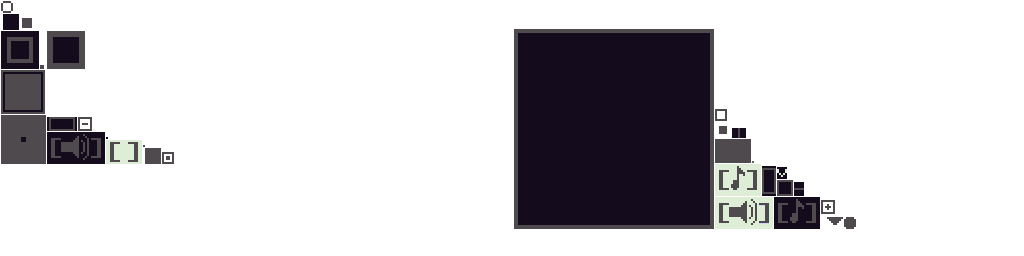
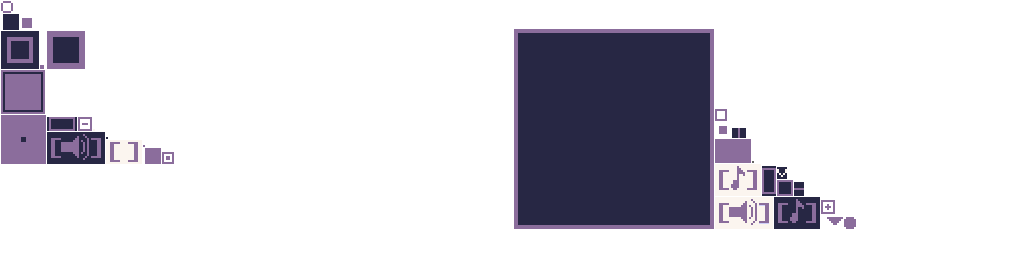
palette, tiles

Changed region(s): [[0.5, 0.0938, 0.8438, 0.9062], [0.0, 0.0, 0.1875, 0.6562]]

diff --git a/core/src/main/com/ovle/rll3/view/palette/partial.kt b/core/src/main/com/ovle/rll3/view/palette/partial.kt
@@ -22,6 +22,11 @@ import com.ovle.rll3.view.palette.full.En.tealEn
 import com.ovle.rll3.view.palette.full.En.whiteEn
 import com.ovle.rll3.view.palette.full.Glow1bit.black1bit
 import com.ovle.rll3.view.palette.full.Glow1bit.white1bit
+import com.ovle.rll3.view.palette.full.Oil.blackOil
+import com.ovle.rll3.view.palette.full.Oil.darkOil
+import com.ovle.rll3.view.palette.full.Oil.grayOil
+import com.ovle.rll3.view.palette.full.Oil.lightGrayOil
+import com.ovle.rll3.view.palette.full.Oil.whiteOil
 
 //------------------------------------------------
 
@@ -142,9 +147,17 @@ internal val palette2Color = arrayOf(
     white1bit
 )
 
-val paletteMain = arrayOf(
+val paletteEn4 = arrayOf(
     blackEn,
     greenEn,
     tealEn,
     whiteEn
+)
+
+val paletteOil = arrayOf(
+    blackOil,
+    darkOil,
+    grayOil,
+    lightGrayOil,
+    whiteOil
 )

diff --git a/core/src/main/com/ovle/rll3/view/constants.kt b/core/src/main/com/ovle/rll3/view/constants.kt
@@ -19,9 +19,9 @@ const val gameFullscreen = false
 const val skinPath = "skins/c64/uiskin.json"
 const val fontName = "commodore-64"
 
-const val tileTexturePath = "images/tiles.png"
-const val spriteTexturePath = "images/sprites.png"
-const val guiTexturePath = "images/gui.png"
+const val tileTexturePath = "images/tiles_oil.png"
+const val spriteTexturePath = "images/sprites_oil.png"
+const val guiTexturePath = "images/gui_oil.png"
 
 const val entityTemplatePath = "templates/entity/"
 const val entityViewTemplatePath = "templates/entity/view/"

diff --git a/core/src/main/com/ovle/rll3/view/palette/full/Oil.kt b/core/src/main/com/ovle/rll3/view/palette/full/Oil.kt
@@ -1,0 +1,12 @@
+package com.ovle.rll3.view.palette.full
+
+import com.badlogic.gdx.graphics.Color
+
+object Oil {
+    val blackOil = Color.valueOf("272744")
+    val darkOil = Color.valueOf("494D7E")
+    val grayOil = Color.valueOf("8B6D9C")
+    val lightGrayOil = Color.valueOf("C69FA5")
+    val lightOil = Color.valueOf("F2D3AB")
+    val whiteOil = Color.valueOf("FBF5EF")
+}

diff --git a/core/src/main/com/ovle/rll3/view/palette/Palette.kt b/core/src/main/com/ovle/rll3/view/palette/Palette.kt
@@ -13,7 +13,7 @@ object Palette {
     /**
      * in-game displayed palette
      */
-    val palette = paletteMain
+    val palette = paletteOil
 
     /**
      * in-game background color (usually the most dark color of the palette)
